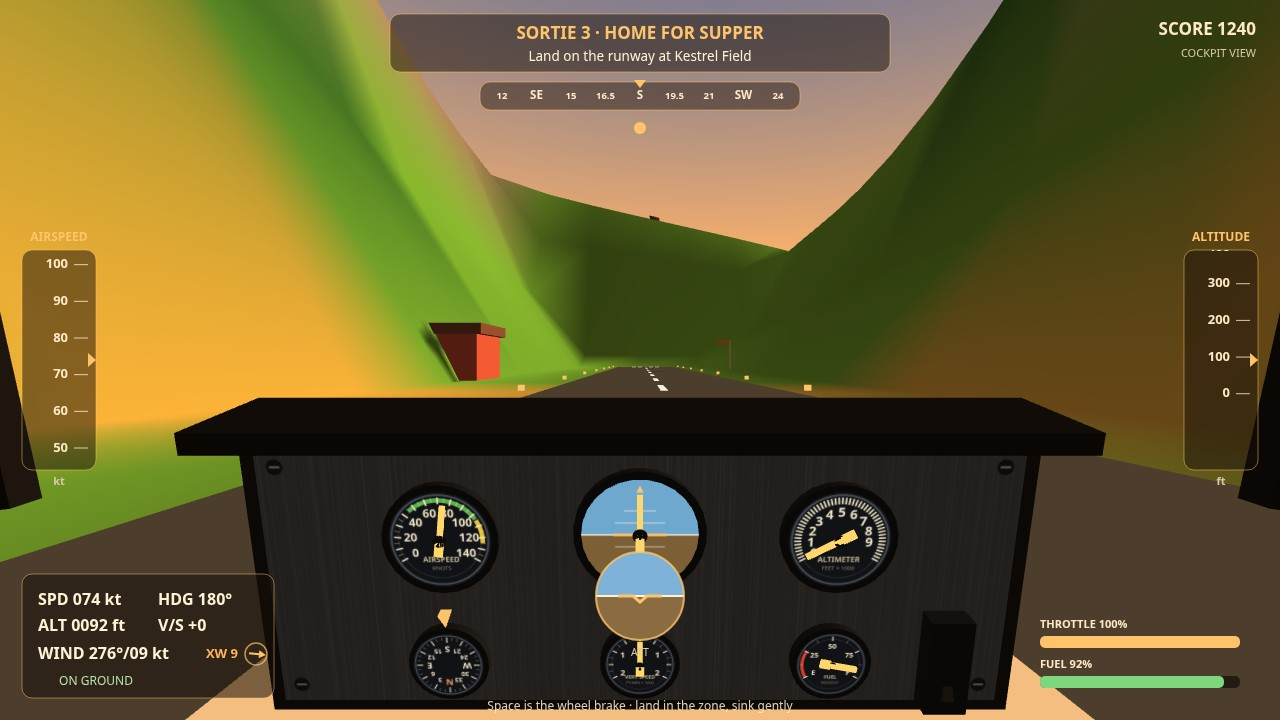
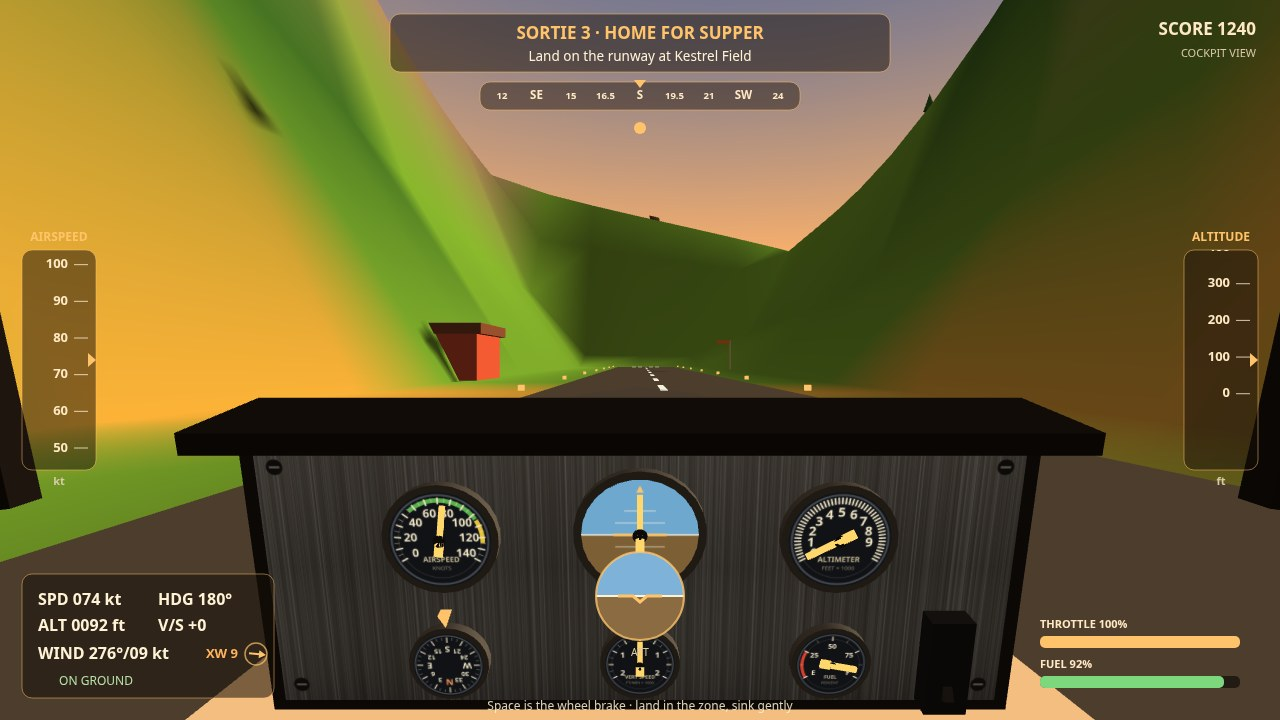
v4: visual polish — jittered field patchwork, sandy river banks, Phong water sheen, +50% trees in varied shades, rock outcrops, low-poly cloud clusters and a hazy snow-capped peak ring (scenery.js), glossy dark canopy, prop-blur disc, brushed-metal panel plate with lighter gauge bezels

diff --git a/game/src/terrain.js b/game/src/terrain.js
@@ -46,6 +46,8 @@ export function heightAt(x, z) {
   return h;
 }
 
+const SAND_COLOR = new THREE.Color(COLORS.sand);
+
 function vertexColor(x, z, h, out) {
   const dRiver = Math.abs(x - riverX(z));
   if (h < WORLD.waterLevel + 0.7) out.set(COLORS.sand);
@@ -58,6 +60,15 @@ function vertexColor(x, z, h, out) {
     else out.set(COLORS.grass);
     if (h > 235) out.set(COLORS.snow);
   }
+  // Sandy banks where the valley floor meets the water: a tan shoulder
+  // fading out as the bank climbs and widens away from the centreline.
+  if (dRiver < 118 && h >= WORLD.waterLevel + 0.7 && h < WORLD.waterLevel + 3.6) {
+    out.lerp(SAND_COLOR, (1 - smoothstep(58, 118, dRiver)) * 0.8);
+  }
+  // Broad tonal drift across the whole valley — warm sunlit patches and
+  // cooler shadowed ones — so big slopes never read as one flat fill.
+  const tone = fbm(x * 0.45 + 40, z * 0.45, SEED + 9);
+  out.offsetHSL((tone - 0.5) * 0.03, 0, (tone - 0.5) * 0.04);
   // Slight per-vertex jitter so the flats read as low-poly facets.
   const j = 0.94 + fbm(x * 3.1, z * 3.1, SEED + 5) * 0.12;
   out.multiplyScalar(j);
@@ -87,6 +98,35 @@ export class Terrain {
     this.buildVegetation(scene);
     this.buildFields(scene);
     this.buildRoads(scene);
+    this.buildRocks(scene);
+  }
+
+  buildRocks(scene) {
+    // Grey outcrops shouldering out of the hillsides: faceted
+    // dodecahedrons, half-buried, in two weathered greys. Kept off the
+    // valley floor, the water and the runway plateau.
+    const rng = mulberry32(SEED + 404);
+    const geo = new THREE.DodecahedronGeometry(1, 0);
+    const mats = [0x7a7268, 0x8a8178]
+      .map((c) => new THREE.MeshLambertMaterial({ color: c }));
+    let placed = 0;
+    for (let i = 0; i < 90 && placed < 30; i++) {
+      const x = (rng() - 0.5) * (WORLD.size - 300);
+      const z = (rng() - 0.5) * (WORLD.size - 300);
+      const h = heightAt(x, z);
+      if (h < 52 || h > 215) continue;
+      if (Math.abs(x - riverX(z)) < 130) continue;
+      if (Math.hypot(x - LAKE.x, z - LAKE.z) < LAKE.r + 40) continue;
+      if (Math.abs(x - RUNWAY.x) < 170 && Math.abs(z - RUNWAY.z) < 300) continue;
+      const rock = new THREE.Mesh(geo, mats[Math.floor(rng() * mats.length)]);
+      const sx = 2.5 + rng() * 4.5, sy = 1.6 + rng() * 3.2, sz = 2.5 + rng() * 4.5;
+      rock.scale.set(sx, sy, sz);
+      rock.position.set(x, h + sy * 0.25, z);
+      rock.rotation.set(rng() * 0.6, rng() * Math.PI, rng() * 0.6);
+      rock.castShadow = true; rock.receiveShadow = true;
+      scene.add(rock);
+      placed++;
+    }
   }
 
   buildGround(scene) {
@@ -112,7 +152,12 @@ export class Terrain {
   }
 
   buildWater(scene) {
-    const mat = new THREE.MeshLambertMaterial({ color: COLORS.water, transparent: true, opacity: 0.94 });
+    // Phong water: a lighter sky-blue with a real specular sheen, so the
+    // river and lake catch the low sun instead of reading as flat paint.
+    const mat = new THREE.MeshPhongMaterial({
+      color: 0x2b8fd6, specular: 0xd6ecff, shininess: 110,
+      transparent: true, opacity: 0.93,
+    });
     // The river: a ribbon of quads following the centreline at water level.
     const pts = [];
     for (let z = -WORLD.size / 2; z <= WORLD.size / 2; z += 40) pts.push(z);
@@ -277,9 +322,8 @@ export class Terrain {
     // land with edges, not confetti. One cluster terraces the west
     // slope; the other surrounds the village.
     const rng = mulberry32(SEED + 202);
-    const cols = [0x77b13c, 0x9cc24a, 0xc9a227, 0x8a5a30, 0x5da244];
+    const cols = [0x6fae35, 0x93bd42, 0xc79f22, 0x7d4f2a, 0x54963c];
     const borderMat = new THREE.MeshLambertMaterial({ color: 0x44542a });
-    const mats = cols.map((c) => new THREE.MeshLambertMaterial({ color: c }));
     const clusters = [
       { x0: -640, x1: -240, z0: -320, z1: 620, n: 20 },
       { x0: 40, x1: 460, z0: 360, z1: 940, n: 18 },
@@ -298,7 +342,13 @@ export class Terrain {
         border.position.set(x, y + 0.18, z);
         border.receiveShadow = true;
         scene.add(border);
-        const f = new THREE.Mesh(new THREE.PlaneGeometry(w, d), mats[Math.floor(rng() * mats.length)]);
+        // Every plot gets its own jittered tint off the palette — hue,
+        // saturation and lightness all wander a little — so no two
+        // neighbouring fields share one flat fill.
+        const fc = new THREE.Color(cols[Math.floor(rng() * cols.length)]);
+        fc.offsetHSL((rng() - 0.5) * 0.035, (rng() - 0.5) * 0.07, (rng() - 0.5) * 0.06);
+        const f = new THREE.Mesh(new THREE.PlaneGeometry(w, d),
+          new THREE.MeshLambertMaterial({ color: fc }));
         f.rotation.x = -Math.PI / 2; f.rotation.z = rot;
         f.position.set(x, y + 0.32, z);
         f.receiveShadow = true;
@@ -368,8 +418,9 @@ export class Terrain {
     const trunkGeo = new THREE.CylinderGeometry(0.35, 0.5, 2.6, 5);
     const crownGeo = new THREE.ConeGeometry(2.6, 7.5, 6);
     const trunkMat = new THREE.MeshLambertMaterial({ color: 0x6b4a2e });
-    const crownMat = new THREE.MeshLambertMaterial({ color: COLORS.forest });
-    for (let i = 0; i < 420; i++) {
+    const crownMats = [COLORS.forest, 0x38682c, 0x24491c, 0x41702f]
+      .map((c) => new THREE.MeshLambertMaterial({ color: c }));
+    for (let i = 0; i < 640; i++) {
       const x = (rng() - 0.5) * (WORLD.size - 160);
       const z = (rng() - 0.5) * (WORLD.size - 160);
       const h = heightAt(x, z);
@@ -380,7 +431,8 @@ export class Terrain {
       const s = 0.8 + rng() * 0.9;
       const tree = new THREE.Group();
       const trunk = new THREE.Mesh(trunkGeo, trunkMat); trunk.position.y = 1.3;
-      const crown = new THREE.Mesh(crownGeo, crownMat); crown.position.y = 6; crown.castShadow = true;
+      const crown = new THREE.Mesh(crownGeo, crownMats[Math.floor(rng() * crownMats.length)]);
+      crown.position.y = 6; crown.castShadow = true;
       tree.add(trunk); tree.add(crown);
       tree.scale.setScalar(s);
       tree.position.set(x, h - 0.2, z);

diff --git a/game/src/scenery.js b/game/src/scenery.js
@@ -1,0 +1,82 @@
+// scenery.js — the valley's dressing beyond the rim: low-poly cloud
+// clusters drifting at flying altitude, and a ring of distant grey
+// peaks with pale snow caps standing in the haze beyond the valley
+// wall. Pure decoration — nothing here touches the flight model —
+// placed from the seeded RNG so the sky is the same on every load.
+
+import { SEED } from './config.js';
+import { mulberry32 } from './random.js';
+
+export class Scenery {
+  constructor(scene) {
+    this.clouds = new THREE.Group();
+    this.buildClouds();
+    scene.add(this.clouds);
+    this.buildPeaks(scene);
+  }
+
+  buildClouds() {
+    // Each cloud is a raft of flattened icosahedrons: bright tops in
+    // near-white, the lower puffs tinted warm by the low sun, so a
+    // cluster reads as one lit mass instead of grey lumps.
+    const rng = mulberry32(SEED + 505);
+    const topMat = new THREE.MeshLambertMaterial({ color: 0xfff8ee });
+    const underMat = new THREE.MeshLambertMaterial({ color: 0xffd2a0 });
+    const puffGeo = new THREE.IcosahedronGeometry(1, 0);
+    for (let i = 0; i < 17; i++) {
+      const cl = new THREE.Group();
+      const puffs = 5 + Math.floor(rng() * 3);
+      for (let j = 0; j < puffs; j++) {
+        const lower = j > puffs - 3;
+        const m = new THREE.Mesh(puffGeo, lower ? underMat : topMat);
+        m.position.set(
+          (j - (puffs - 1) / 2) * (20 + rng() * 14) + (rng() - 0.5) * 16,
+          lower ? -4 - rng() * 3 : (rng() - 0.5) * 5,
+          (rng() - 0.5) * 30);
+        m.scale.set(26 + rng() * 30, 8 + rng() * 6, 18 + rng() * 14);
+        m.rotation.y = rng() * Math.PI;
+        cl.add(m);
+      }
+      const a = rng() * Math.PI * 2;
+      const r = 350 + rng() * 1550;
+      cl.position.set(Math.cos(a) * r, 255 + rng() * 165, Math.sin(a) * r);
+      cl.rotation.y = rng() * Math.PI;
+      this.clouds.add(cl);
+    }
+  }
+
+  buildPeaks(scene) {
+    // A broken ring of far peaks just inside the sky dome. Fog does
+    // most of the work: at this range they stand as warm-hazed
+    // silhouettes with snow catching the last of the light.
+    const rng = mulberry32(SEED + 606);
+    const rockMat = new THREE.MeshLambertMaterial({ color: 0x6f6a72 });
+    const snowMat = new THREE.MeshLambertMaterial({ color: 0xf6efe4 });
+    for (let i = 0; i < 11; i++) {
+      const a = (i / 11) * Math.PI * 2 + (rng() - 0.5) * 0.4;
+      const dist = 2950 + rng() * 350;
+      const hgt = 640 + rng() * 420;
+      const rad = 400 + rng() * 220;
+      const g = new THREE.Group();
+      const peak = new THREE.Mesh(new THREE.ConeGeometry(rad, hgt, 6), rockMat);
+      peak.position.y = hgt / 2 - 30;
+      peak.rotation.y = rng() * Math.PI;
+      g.add(peak);
+      const capH = hgt * 0.36;
+      const cap = new THREE.Mesh(new THREE.ConeGeometry(rad * 0.37, capH, 6), snowMat);
+      cap.position.y = hgt - 30 - capH / 2 + 6;
+      cap.rotation.y = peak.rotation.y;
+      g.add(cap);
+      g.position.set(Math.cos(a) * dist, 0, Math.sin(a) * dist);
+      scene.add(g);
+    }
+  }
+
+  update(dt) {
+    // The clusters drift with the evening flow and wrap at the rim.
+    for (const cl of this.clouds.children) {
+      cl.position.x += dt * 1.4;
+      if (cl.position.x > 2500) cl.position.x = -2500;
+    }
+  }
+}

diff --git a/game/src/aircraft.js b/game/src/aircraft.js
@@ -37,10 +37,12 @@ export function buildKestrel() {
     const tailBand = part(new THREE.BoxGeometry(0.04, 0.5, 0.9), red, s * 0.47, 0.34, 4.6);
     tailBand.rotation.x = 0.1; g.add(tailBand);
   }
-  // Cabin glass: lower-profile (0.5 tall, sunk into the body) and a
-  // tinted glass blue-grey — light enough to read as glass, not the
-  // near-black box it was before.
-  const glass = part(new THREE.BoxGeometry(1.25, 0.5, 2.0), 0x7d9eb2, 0, 0.82, -0.7); g.add(glass);
+  // Cabin glass: lower-profile (0.5 tall, sunk into the body), now a
+  // dark glossy tint — Phong with a bright sky specular, so the canopy
+  // throws a highlight like real perspex instead of reading as paint.
+  const glass = new THREE.Mesh(new THREE.BoxGeometry(1.25, 0.5, 2.0),
+    new THREE.MeshPhongMaterial({ color: 0x18242f, specular: 0xbfd9ee, shininess: 90 }));
+  glass.position.set(0, 0.82, -0.7); glass.castShadow = true; g.add(glass);
   // High wing with red tips and visible taper + dihedral via two
   // panels per side: a wide-chord inner panel and a narrower-chord,
   // thinner outer panel set higher, so the wing steps down in chord
@@ -105,6 +107,15 @@ export function buildKestrel() {
   const blade = part(new THREE.BoxGeometry(0.28, 3.4, 0.08), 0x3a2e24, 0, 0, 0); prop.add(blade);
   const spinner = part(new THREE.ConeGeometry(0.34, 0.8, 8), red, 0, 0, -0.3);
   spinner.rotation.x = -Math.PI / 2; prop.add(spinner);
+  // The blur disc a running prop actually shows: a faint dark glass of
+  // a circle at the blade plane, so a still of the Kestrel under power
+  // reads as an engine turning, not a parked cross.
+  const blur = new THREE.Mesh(new THREE.CircleGeometry(1.72, 28),
+    new THREE.MeshBasicMaterial({
+      color: 0x35302a, transparent: true, opacity: 0.16,
+      side: THREE.DoubleSide, depthWrite: false,
+    }));
+  blur.position.z = 0.03; prop.add(blur);
   prop.position.set(0, 0, -4.85);
   g.add(prop);
   g.userData.prop = prop;

diff --git a/game/src/main.js b/game/src/main.js
@@ -6,6 +6,7 @@
 
 import { WORLD, COLORS, RUNWAY } from './config.js';
 import { Terrain, heightAt } from './terrain.js';
+import { Scenery } from './scenery.js';
 import { Aircraft } from './aircraft.js';
 import { Missions } from './missions.js';
 import { CameraRig, applyShotCamera } from './camera.js';
@@ -39,7 +40,7 @@ const camera = new THREE.PerspectiveCamera(62, window.innerWidth / window.innerH
   const geo = new THREE.SphereGeometry(4200, 24, 14);
   const pos = geo.attributes.position;
   const colors = new Float32Array(pos.count * 3);
-  const top = new THREE.Color(0x51689c), mid = new THREE.Color(COLORS.sky), low = new THREE.Color(COLORS.skyLow);
+  const top = new THREE.Color(0x42619e), mid = new THREE.Color(COLORS.sky), low = new THREE.Color(COLORS.skyLow);
   const c = new THREE.Color();
   for (let i = 0; i < pos.count; i++) {
     const t = Math.max(0, Math.min(1, pos.getY(i) / 4200 + 0.12));
@@ -93,6 +94,7 @@ const clouds = new THREE.Group();
 }
 
 const terrain = new Terrain(scene);
+const scenery = new Scenery(scene);
 const plane = new Aircraft(scene);
 const missions = new Missions(scene);
 const wind = new Wind();
@@ -189,6 +191,7 @@ function loop(now) {
   }
 
   terrain.update(dt, t);
+  scenery.update(dt);
   clouds.children.forEach((cl, i) => { cl.position.x += dt * (1.1 + i * 0.22); if (cl.position.x > 2400) cl.position.x = -2400; });
   sun.target.position.copy(plane.pos);
   if (frozen && shot === 'landing') {

diff --git a/game/src/cockpit.js b/game/src/cockpit.js
@@ -91,10 +91,19 @@ function airspeedFace() {
 function panelPlateTexture() {
   const [cv, g] = makeCanvas(1024, 384);
   const rng = mulberry32(7);
-  g.fillStyle = '#221e1c'; g.fillRect(0, 0, 1024, 384);
-  for (let i = 0; i < 900; i++) {
+  g.fillStyle = '#27231f'; g.fillRect(0, 0, 1024, 384);
+  // A soft sheen falling from the top edge, like light off brushed
+  // metal, over a denser grain of pale and dark vertical strokes.
+  const sheen = g.createLinearGradient(0, 0, 0, 384);
+  sheen.addColorStop(0, 'rgba(255,236,200,0.07)');
+  sheen.addColorStop(0.45, 'rgba(255,236,200,0.015)');
+  sheen.addColorStop(1, 'rgba(0,0,0,0.10)');
+  g.fillStyle = sheen; g.fillRect(0, 0, 1024, 384);
+  for (let i = 0; i < 1700; i++) {
     const x = rng() * 1024;
-    g.strokeStyle = `rgba(255,255,255,${rng() * 0.03})`;
+    g.strokeStyle = rng() > 0.42
+      ? `rgba(255,255,255,${0.02 + rng() * 0.05})`
+      : `rgba(0,0,0,${0.03 + rng() * 0.05})`;
     g.beginPath(); g.moveTo(x, 0); g.lineTo(x, 384); g.stroke();
   }
   for (const [x, y] of [[26, 26], [998, 26], [26, 358], [998, 358]]) {
@@ -116,7 +125,7 @@ function buildGauge(radius, faceTexture, withNeedle = true) {
   const grp = new THREE.Group();
   const bezel = new THREE.Mesh(
     new THREE.CylinderGeometry(radius * 1.14, radius * 1.14, 0.045, 26),
-    darkMetal());
+    darkMetal(0x4b4f55));
   bezel.rotation.x = Math.PI / 2;
   grp.add(bezel);
   const pivot = new THREE.Group();
